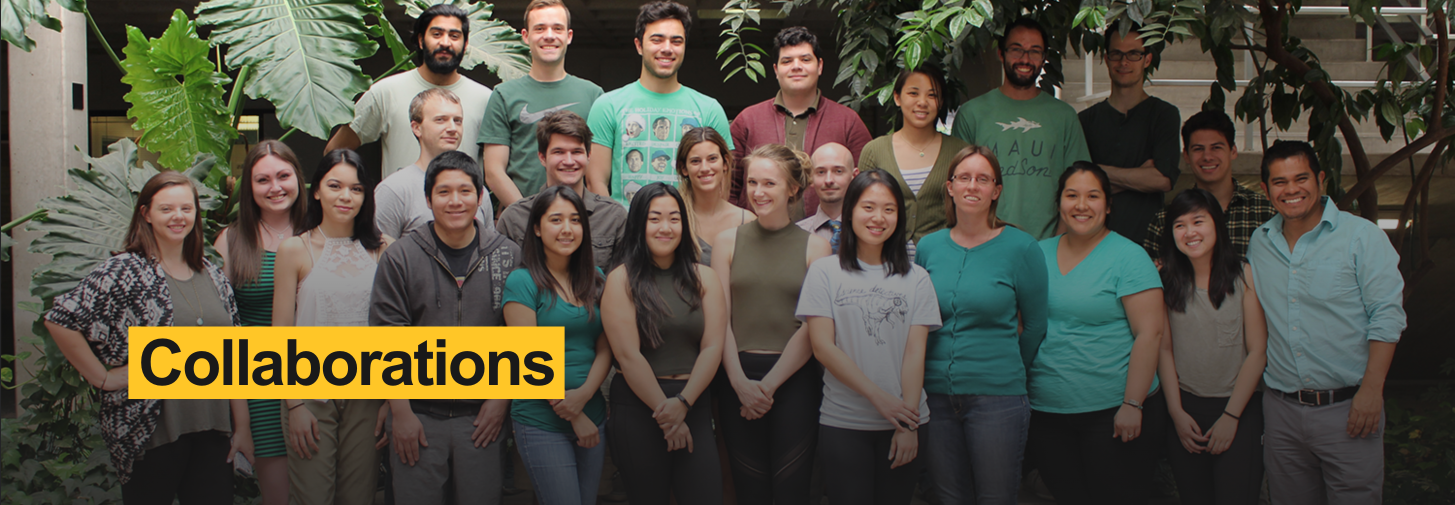
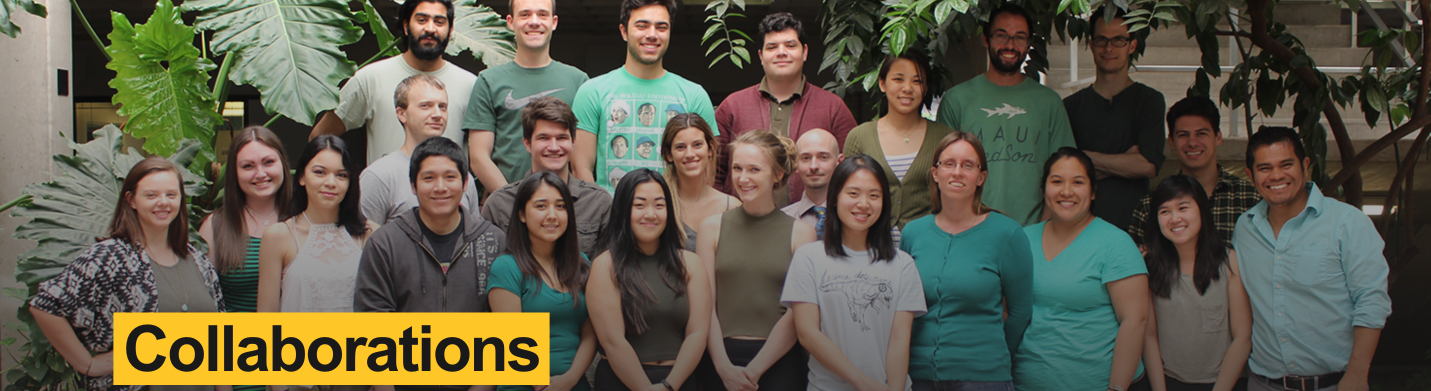
collab

diff --git a/src/styles/Collaborationss.css b/src/styles/Collaborationss.css
@@ -10,7 +10,12 @@
     position: relative;
 }
 
+.banner-container {
+        background-color: rgba(250, 244, 225, 0.8);
+}
+
 .banner-image {
+    background-color: rgba(250, 244, 225, 0.8);
     width: 100%;
     height: auto;
     object-fit: flex;
@@ -28,7 +33,7 @@
 
 @media (max-width: 768px) {
     .banner-container {
-        height: 200px;
+        height: 300px;
     }
 
     .banner-overlay h1 {
@@ -39,6 +44,32 @@
 .content-sections {
         background-color: rgba(250, 244, 225, 0.8);
     padding-left: 20px;
+}
+
+.collaboration-container {
+    width: 100%;
+    margin: 0;
+    padding: 0;
+}
+
+.banner-container {
+    width: 100%;
+    height: auto;
+    margin: 0;
+    padding: 0;
+}
+
+.content-sections {
+    padding: 2rem;
+    margin-top: 0;
+}
+
+.banner-image {
+    width: 100%;
+    height: 100%;
+    object-fit: cover;
+    display: block;
+    margin: 0;
 }
 
 h1 {
